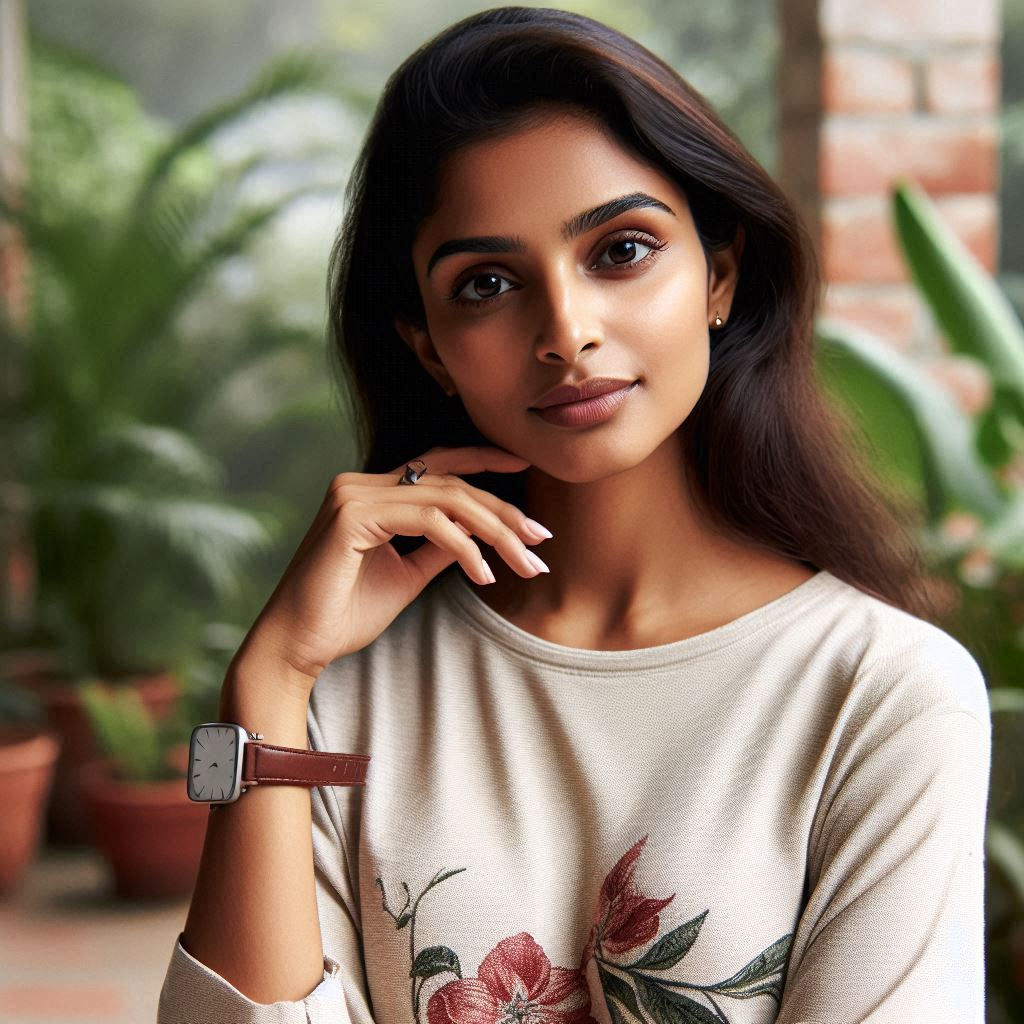
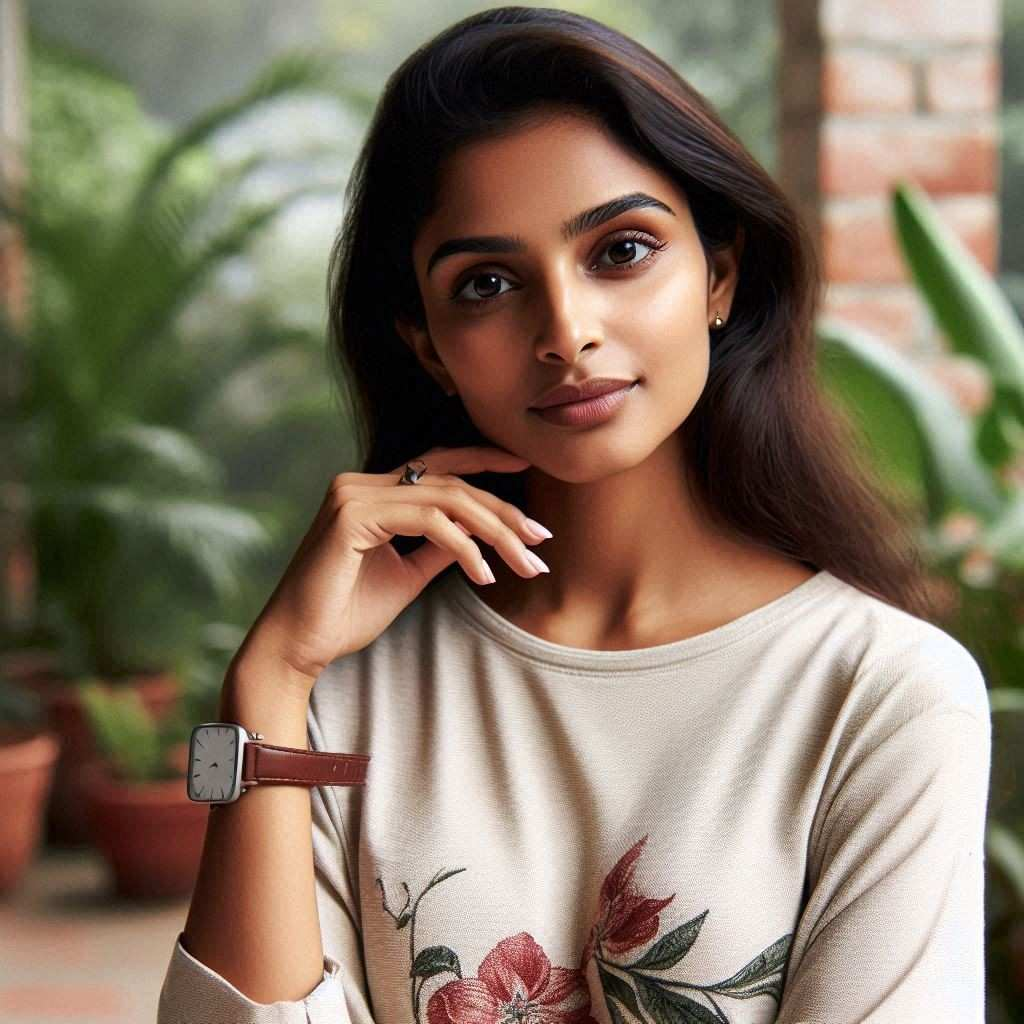
Reduced size of images.

Changed region(s): [[0.5938, 0.6875, 0.9062, 1.0], [0.375, 0.8438, 0.5625, 1.0], [0.6875, 0.6875, 0.7188, 0.7188]]

diff --git a/Blogit/settings.py b/Blogit/settings.py
@@ -25,7 +25,7 @@ SETTINGS_PATH = os.path.dirname(os.path.dirname(__file__))
 SECRET_KEY = 'django-insecure-8op9_fv%i@m@&pla!%a1ky(f0rk9-zlb_^u3!xrt4$5^96s87n'
 
 # SECURITY WARNING: don't run with debug turned on in production!
-DEBUG = True
+DEBUG = False
 
 ALLOWED_HOSTS = ['*']
 
